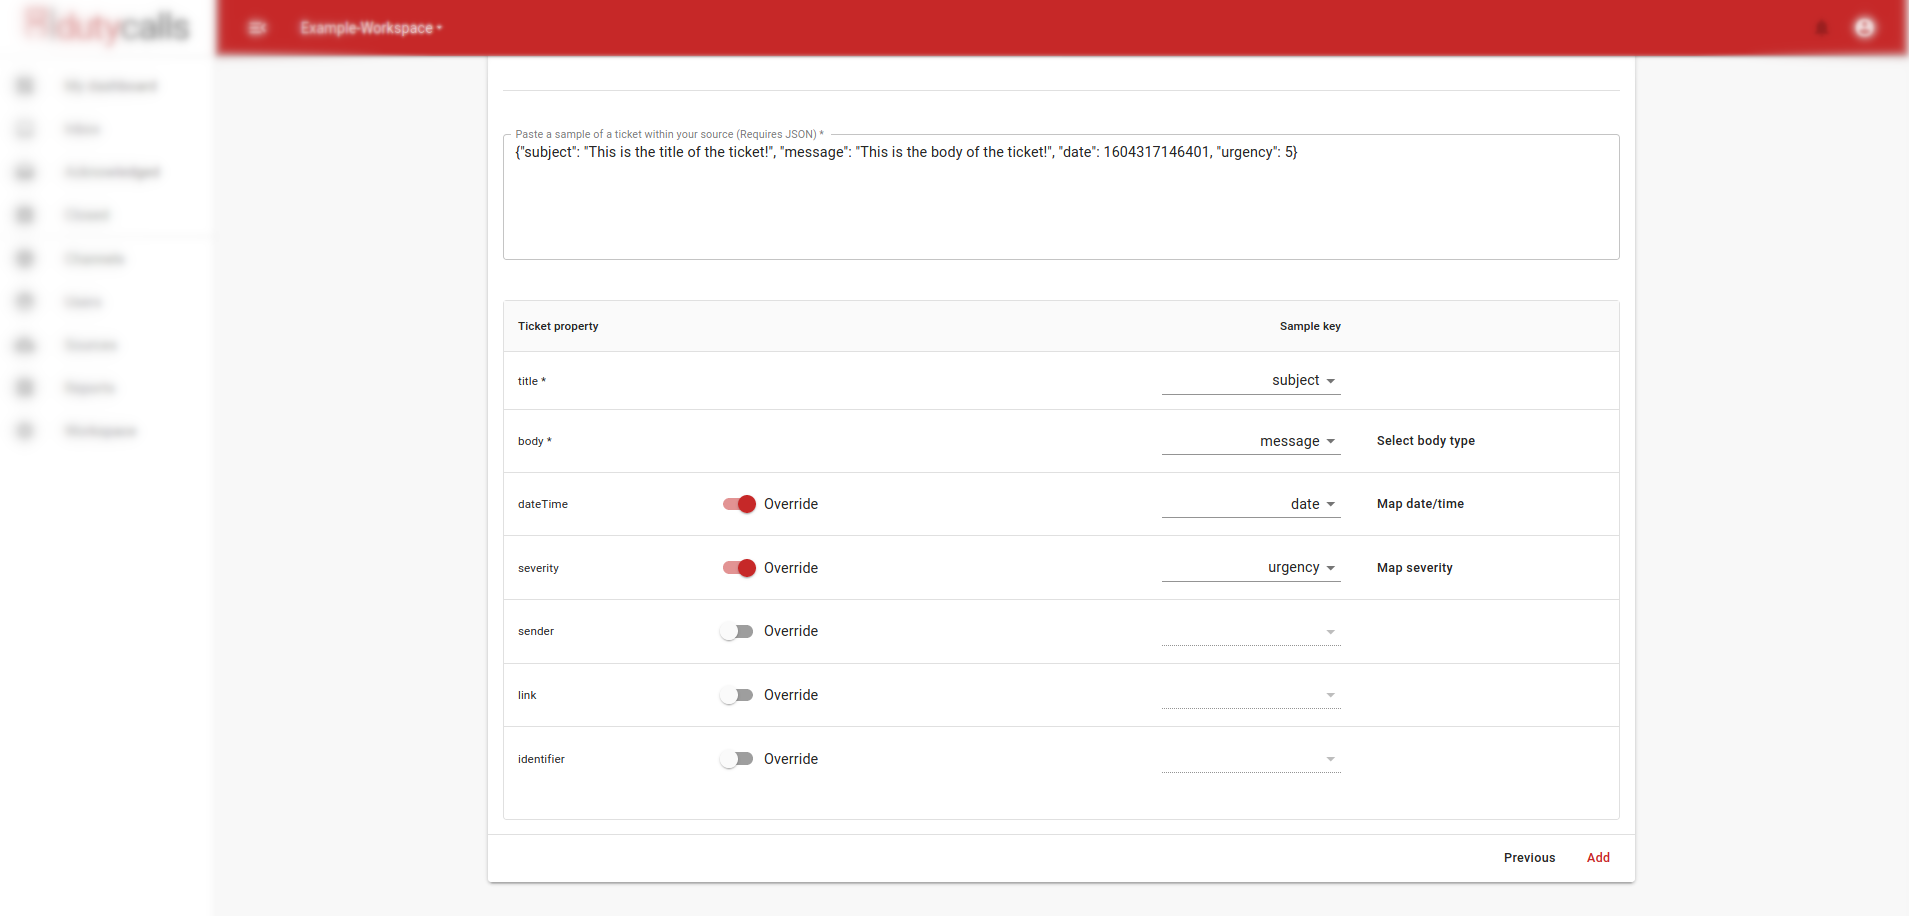
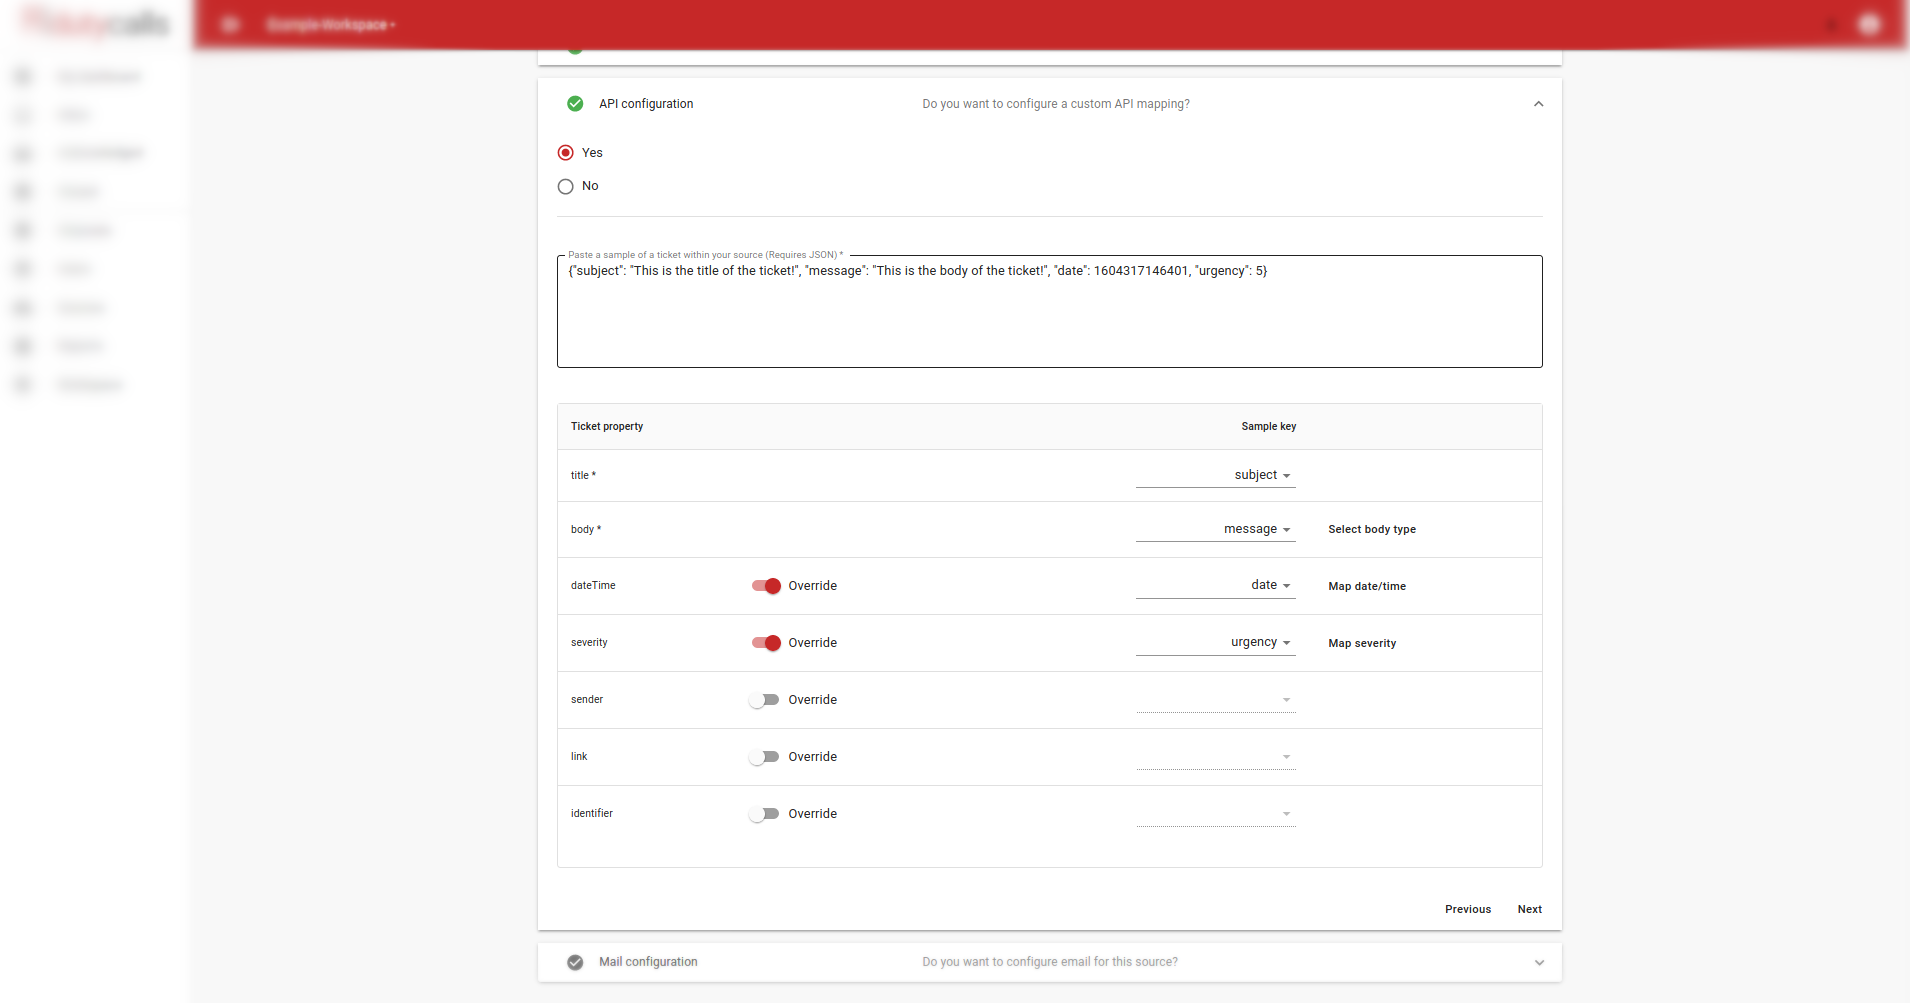
Deployed b49278b with MkDocs version: 1.1.2

diff --git a/email/index.html b/email/index.html
@@ -13,7 +13,7 @@
     
     
       
-        <title>REST API - DutyCalls</title>
+        <title>Email - DutyCalls</title>
       
     
     
@@ -58,7 +58,7 @@
     <div data-md-component="skip">
       
         
-        <a href="#rest-api" class="md-skip">
+        <a href="#email" class="md-skip">
           Skip to content
         </a>
       
@@ -87,7 +87,7 @@
           </span>
           <span class="md-header-nav__topic md-ellipsis">
             
-              REST API
+              Email
             
           </span>
         </div>
@@ -194,6 +194,18 @@
       
       
 
+
+  <li class="md-nav__item">
+    <a href="../rest-api/" class="md-nav__link">
+      REST API
+    </a>
+  </li>
+
+    
+      
+      
+      
+
   
 
 
@@ -205,12 +217,12 @@
     
     
       <label class="md-nav__link md-nav__link--active" for="__toc">
-        REST API
+        Email
         <span class="md-nav__icon md-icon"></span>
       </label>
     
     <a href="./" class="md-nav__link md-nav__link--active">
-      REST API
+      Email
     </a>
     
       
@@ -234,22 +246,8 @@
 </li>
       
         <li class="md-nav__item">
-  <a href="#authentication" class="md-nav__link">
-    Authentication
-  </a>
-  
-</li>
-      
-        <li class="md-nav__item">
-  <a href="#example" class="md-nav__link">
-    Example
-  </a>
-  
-</li>
-      
-        <li class="md-nav__item">
-  <a href="#api-specifications-and-testing" class="md-nav__link">
-    API specifications and testing
+  <a href="#email-address" class="md-nav__link">
+    Email address
   </a>
   
 </li>
@@ -258,18 +256,6 @@
   
 </nav>
     
-  </li>
-
-    
-      
-      
-      
-
-
-  <li class="md-nav__item">
-    <a href="../email/" class="md-nav__link">
-      Email
-    </a>
   </li>
 
     
@@ -304,22 +290,8 @@
 </li>
       
         <li class="md-nav__item">
-  <a href="#authentication" class="md-nav__link">
-    Authentication
-  </a>
-  
-</li>
-      
-        <li class="md-nav__item">
-  <a href="#example" class="md-nav__link">
-    Example
-  </a>
-  
-</li>
-      
-        <li class="md-nav__item">
-  <a href="#api-specifications-and-testing" class="md-nav__link">
-    API specifications and testing
+  <a href="#email-address" class="md-nav__link">
+    Email address
   </a>
   
 </li>
@@ -337,39 +309,24 @@
               
                 
                 
-                <h1 id="rest-api">REST API</h1>
+                <h1 id="email">Email</h1>
 <h2 id="overview">Overview</h2>
-<p>A REST API is used for accessing and manipulating data within DutyCalls by third parties.</p>
-<h2 id="authentication">Authentication</h2>
-<p>All API calls require authentication. The authentication scheme we use for HTTP requests, is Basic Authentication. In every request a combination of a username and a password must be provided. When manually sending an HTTP request to our API, the following header is required: <code>Authorization: Basic $CREDENTIALS</code>. Where <code>$CREDENTIALS</code> is a base64-encoded string of <code>username:password</code>.</p>
-<p>You can find these credentials by:</p>
+<p>Email can be used for posting tickets to DutyCalls by third parties.</p>
+<h2 id="email-address">Email address</h2>
+<p>Posting tickets to a DutyCalls channel requires a special email address. This email address is unique and can only be used for posting to this channel.</p>
+<p>You can find this email address by:</p>
 <ol>
-<li>Going to the sources page in your workspace.</li>
-<li>Clicking on the <strong>Setup</strong> button of the relevant source.</li>
-<li>Verifying that you are authorized to access these credentials.</li>
-<li>Copying the relevant credentials from the setup dialog.</li>
+<li>Going to the channels page in your workspace.</li>
+<li>Clicking on the <strong>Settings</strong> button of the relevant channel.</li>
+<li>Navigating to the <strong>Email</strong> tab.</li>
+<li>Verifying that you are authorized to access this email address.</li>
+<li>Copying the email address from the settings dialog.</li>
 </ol>
-<p><img alt="image - Get credentials" src="../images/setup-source-dialog-1.png" /></p>
+<p><img alt="image - Get channel email" src="../images/get-channel-email.png" /></p>
+<p>The only thing left to do, is sending an email!</p>
 <blockquote>
-<p><strong>Important</strong>: You should store your credentials in a secure location. It is important to keep your credentials confidential to protect your account.</p>
+<p><strong>Note:</strong> Make sure the email address from which you will be sending emails is added to the list of allowed email addresses of the relevant source.</p>
 </blockquote>
-<h2 id="example">Example</h2>
-<p>In addition to the credentials and the data itself, the name or names of the targeted channels must also be included in the HTTP request. These must be added as the value of the query parameter <code>channel</code> in the URI of the request. An example of this can be seen below.</p>
-<pre><code class="language-curl">curl -X POST &quot;https://dutycalls.me/api/ticket?channel=$CHANNEL_NAME&quot;
-    -H  &quot;accept: application/json&quot;
-        -H  &quot;Content-Type: application/json&quot;
-            -H &quot;Authorization: Basic $CREDENTIALS&quot;
-                -d {
-                        &quot;title&quot;: &quot;This is the title of the ticket&quot;,
-                        &quot;body&quot;: &quot;This is the body of the ticket&quot;,
-                        &quot;severity&quot;: &quot;medium&quot;
-                    }
-</code></pre>
-<blockquote>
-<p><strong>Note</strong>: The keys and values of the JSON to be sent, must exactly match the source configuration. Want to know more about configuring a source within DutyCalls? Check out the <a href="../getting-started/">getting started</a> guide.</p>
-</blockquote>
-<h2 id="api-specifications-and-testing">API specifications and testing</h2>
-<p>For user-friendliness, we have documented and hosted the API specifications in <a href="https://app.swaggerhub.com/apis-docs/robbm1/DutyCalls">Swagger</a>. Besides the easy of use, this also makes it very easy for you to manually test our API.</p>
                 
               
               
@@ -394,7 +351,7 @@
 
       <!-- Link to previous page -->
       
-      <a href="../integrations/" title="Integrations"
+      <a href="../rest-api/" title="REST API"
         class="md-footer-nav__link md-footer-nav__link--prev" rel="prev">
         <div class="md-footer-nav__button md-icon">
           <svg xmlns="http://www.w3.org/2000/svg" viewBox="0 0 24 24"><path d="M20 11v2H8l5.5 5.5-1.42 1.42L4.16 12l7.92-7.92L13.5 5.5 8 11h12z"/></svg>
@@ -404,28 +361,13 @@
             <span class="md-footer-nav__direction">
               Previous
             </span>
-            Integrations
+            REST API
           </div>
         </div>
       </a>
       
 
       <!-- Link to next page -->
-      
-      <a href="../email/" title="Email"
-        class="md-footer-nav__link md-footer-nav__link--next" rel="next">
-        <div class="md-footer-nav__title">
-          <div class="md-ellipsis">
-            <span class="md-footer-nav__direction">
-              Next
-            </span>
-            Email
-          </div>
-        </div>
-        <div class="md-footer-nav__button md-icon">
-          <svg xmlns="http://www.w3.org/2000/svg" viewBox="0 0 24 24"><path d="M4 11v2h12l-5.5 5.5 1.42 1.42L19.84 12l-7.92-7.92L10.5 5.5 16 11H4z"/></svg>
-        </div>
-      </a>
       
     </nav>
   </div>

diff --git a/getting-started/index.html b/getting-started/index.html
@@ -314,6 +314,18 @@
   </li>
 
     
+      
+      
+      
+
+
+  <li class="md-nav__item">
+    <a href="../email/" class="md-nav__link">
+      Email
+    </a>
+  </li>
+
+    
   </ul>
 </nav>
                   </div>
@@ -447,11 +459,13 @@
 <p>A source is literally the source from where you receive tickets. It is probably the system that you want to connect to DutyCalls. You do not actually have to connect your system to DutyCalls, as it uses a REST API. But you must indicate what you are going to post. Tickets can be posted in any format and DutyCalls needs to now how it should interpret these tickets. So a source is actually a mapping between DutyCalls and another system.</p>
 <p>To add a source you have to go to the sources page, click here on the <strong>Add source</strong> button.</p>
 <p><img alt="image - Add a source - Step 1" src="../images/add-source-1.png" /></p>
-<p>Here you will be asked for a name and optionally for a sample of a ticket. This depends on whether you want to post tickets with a custom format or not.</p>
+<p>Here you will be asked for a name and optionally for a REST API and email configuration. This depends on whether you want to post tickets with a custom format or not.</p>
 <p><img alt="image - Add a source - Step 2" src="../images/add-source-2.png" /></p>
-<p>A sample is just an example of a ticket (must be valid JSON) from the system that you want to connect to DutyCalls. After pasting it, you can map all or your keys / values to the corresponding properties of a ticket within DutyCalls. Lastly, click on the <strong>Add</strong> button and the source will be added to your workspace.</p>
+<p>In the REST API configuration you will be asked for a sample of a ticket. A sample is just an example of a ticket/message (must be valid JSON) from the system that you want to connect to DutyCalls. After pasting it, you can map all or your keys / values to the corresponding properties of a ticket within DutyCalls. As a result, DutyCalls knows how to use and display your ticket. When defining a custom format, it is not mandatory to override all properties of a ticket. It may of course be possible that, for example, you do not have to show a link in a ticket or no severity is included in a ticket. There are, however, two mandatory properties. These are: <code>title</code> and <code>body</code>.</p>
 <p><img alt="image - Add a source - Step 3" src="../images/add-source-3.png" /></p>
-<p>As a result, DutyCalls knows how to use and display your ticket. When defining a custom format, it is not mandatory to override all properties of a ticket. It may of course be possible that, for example, you do not have to show a link in a ticket or no severity is included in a ticket. There are, however, two mandatory properties. These are: <code>title</code> and <code>body</code>.</p>
+<p>The next optional step is to configure the mail for this source. The things to enter here are valid email addresses from where emails may be sent to DutyCalls and the rules to be assigned to determine the severity of an email sent to DutyCalls.</p>
+<p><img alt="image - Add a source - Step 4" src="../images/add-source-4.png" /></p>
+<p>Lastly, click on the <strong>Add</strong> button and the source will be added to your workspace.</p>
 <h2 id="step-3-add-a-channel">Step 3 - Add a channel</h2>
 <p>The next logical step is to add a channel.</p>
 <h3 id="what-is-a-channel">What is a channel?</h3>

diff --git a/index.html b/index.html
@@ -211,6 +211,18 @@
   </li>
 
     
+      
+      
+      
+
+
+  <li class="md-nav__item">
+    <a href="email/" class="md-nav__link">
+      Email
+    </a>
+  </li>
+
+    
   </ul>
 </nav>
                   </div>
@@ -246,6 +258,7 @@
 <li>How to <a href="getting-started/">get started</a>?</li>
 <li>How to make use of <a href="integrations/">integrations</a> within DutyCalls?</li>
 <li>How to interact with the DutyCalls <a href="rest-api/">REST API</a>?</li>
+<li>How to post tickets to DutyCalls using <a href="email/">email</a>?</li>
 </ul>
                 
               

diff --git a/integrations/index.html b/integrations/index.html
@@ -314,6 +314,18 @@
   </li>
 
     
+      
+      
+      
+
+
+  <li class="md-nav__item">
+    <a href="../email/" class="md-nav__link">
+      Email
+    </a>
+  </li>
+
+    
   </ul>
 </nav>
                   </div>

diff --git a/404.html b/404.html
@@ -197,6 +197,18 @@
   </li>
 
     
+      
+      
+      
+
+
+  <li class="md-nav__item">
+    <a href="/email/" class="md-nav__link">
+      Email
+    </a>
+  </li>
+
+    
   </ul>
 </nav>
                   </div>
